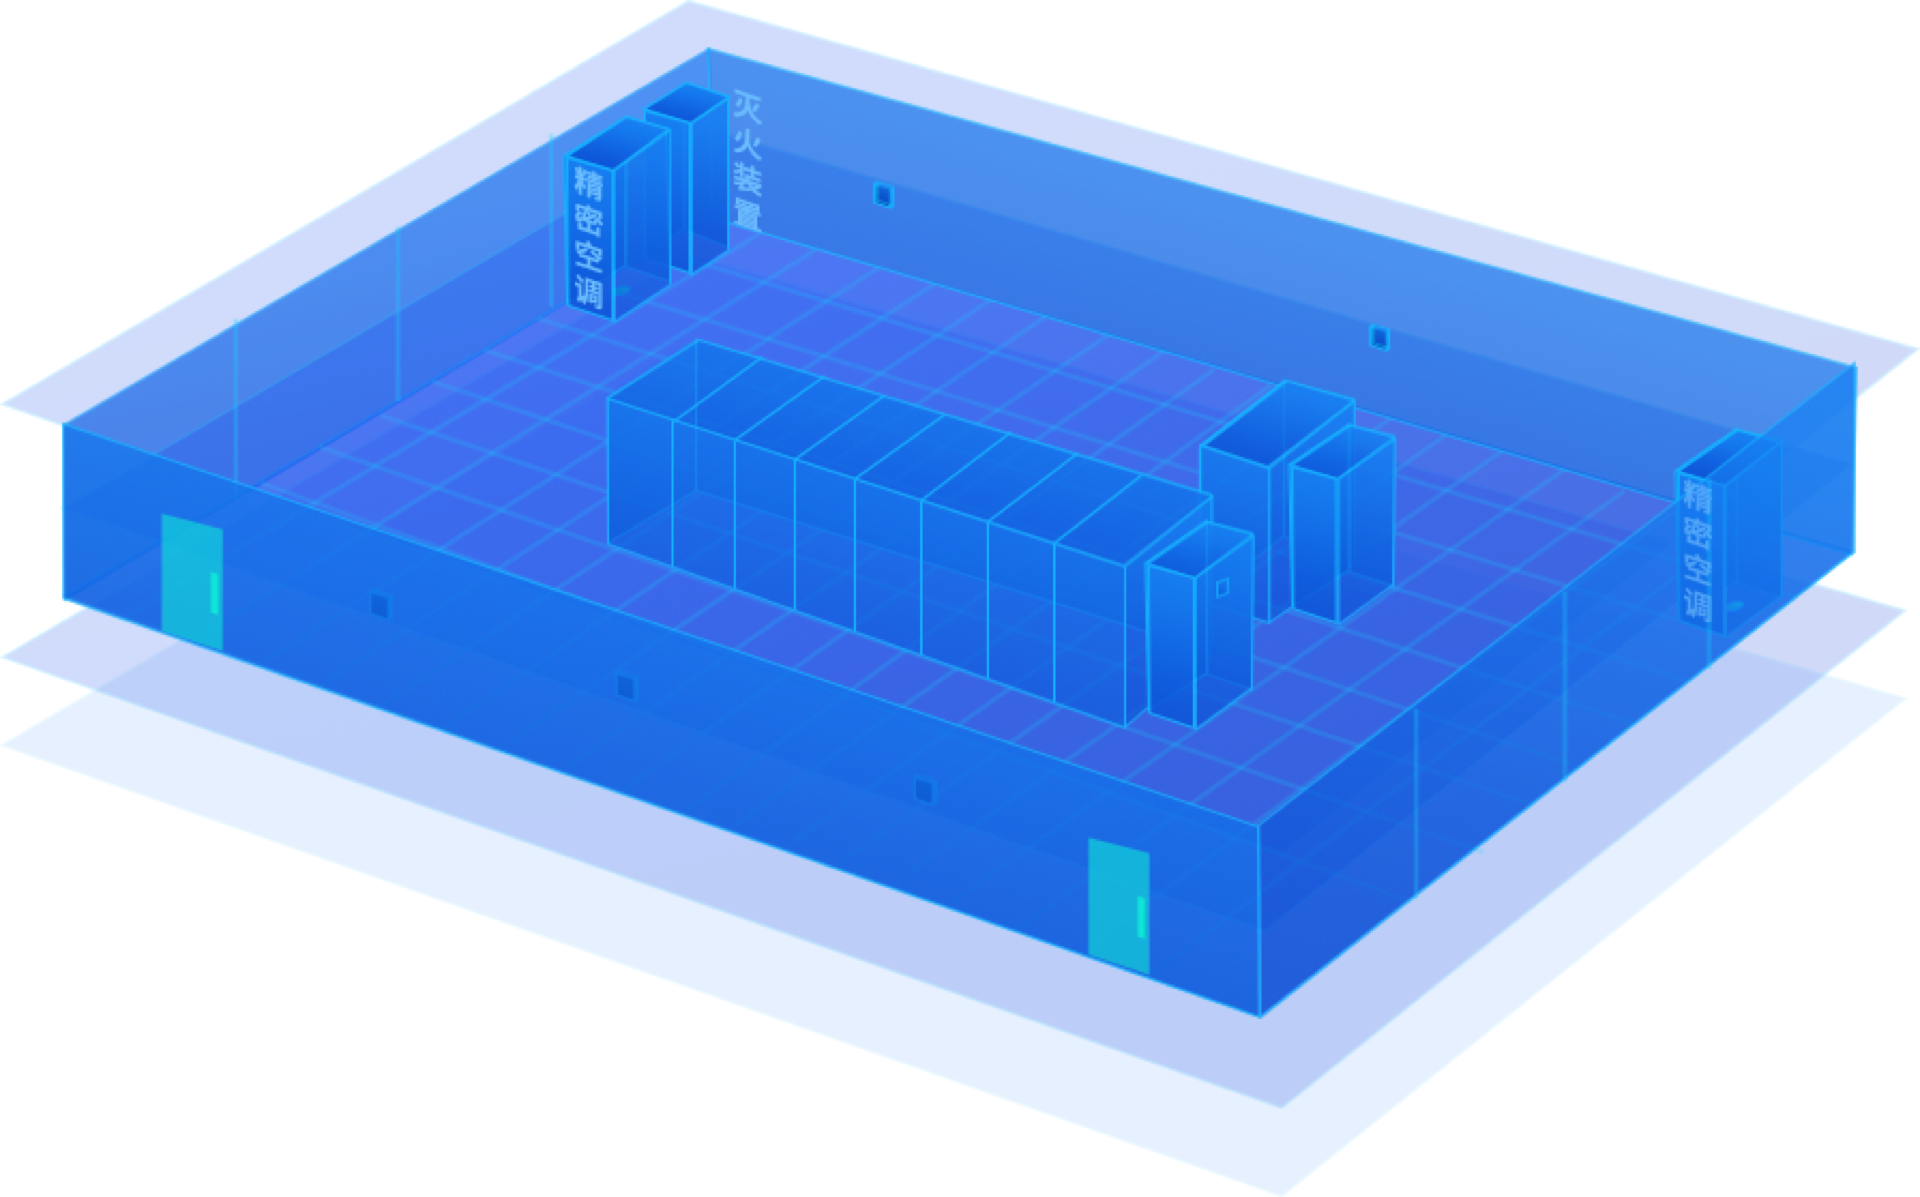
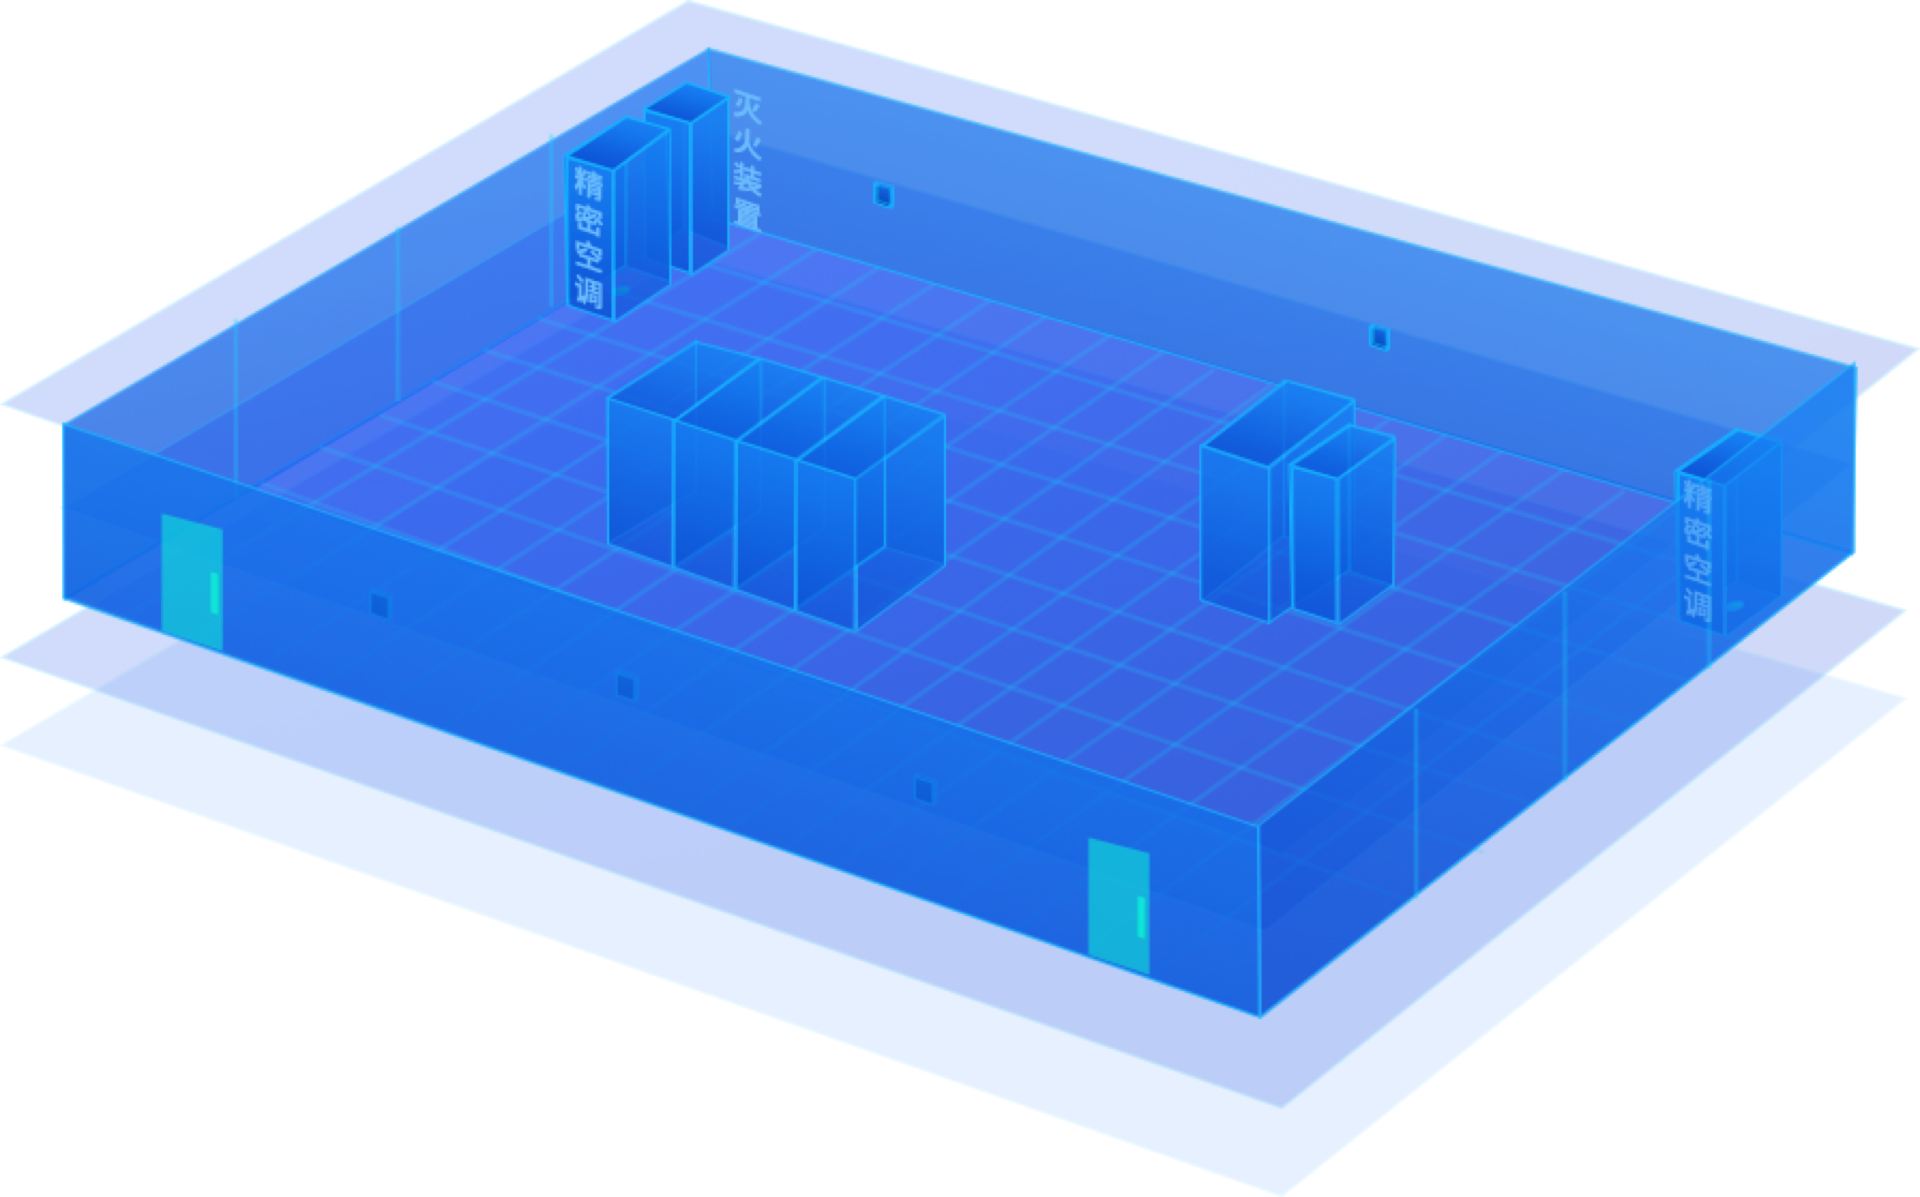
perf: 添加机箱状态

Changed region(s): [[0.4375, 0.34, 0.6562, 0.6182]]

diff --git a/src/components/overview/LocationInfo.vue b/src/components/overview/LocationInfo.vue
@@ -54,11 +54,17 @@
       <span>{{ smokeSensorPoint?.pointLocation }}</span>
       <img :src="smokeSensorPoint.noSmoke ? smokeNormal : smokeWarning" alt="" />
     </div>
+    <div class="crate-1-wrap"><img src="@/assets/images/overview/crate-1-blue.png" alt="" /></div>
+    <div class="crate-2-wrap"><img :src="iot" alt="" /></div>
+    <div class="crate-3-wrap"><img :src="dataPlatform1" alt="" /></div>
+    <div class="crate-4-wrap"><img :src="dataPlatform2" alt="" /></div>
+    <div class="crate-5-wrap"><img :src="devOps" alt="" /></div>
   </div>
 </template>
 
 <script setup lang="ts">
-import { computed } from 'vue'
+import { ref, computed, onMounted } from 'vue'
+import { apiGetSystemDeploy } from '@/service/api/overview'
 import waterNormal from '@/assets/images/overview/water-location-normal.png'
 import waterWarning from '@/assets/images/overview/water-location-warning.png'
 import sensorNormal from '@/assets/images/overview/sensor-normal.png'
@@ -67,6 +73,22 @@ import doorNormal from '@/assets/images/overview/door-normal.png'
 import doorWarning from '@/assets/images/overview/door-warning.png'
 import smokeNormal from '@/assets/images/overview/smoke-normal.png'
 import smokeWarning from '@/assets/images/overview/smoke-warning.png'
+
+import crate2Blue from '@/assets/images/overview/crate-2-blue.png'
+import crate2Yellow from '@/assets/images/overview/crate-2-yellow.png'
+import crate2Red from '@/assets/images/overview/crate-2-red.png'
+
+import crate3Blue from '@/assets/images/overview/crate-3-blue.png'
+import crate3Yellow from '@/assets/images/overview/crate-3-yellow.png'
+import crate3Red from '@/assets/images/overview/crate-3-red.png'
+
+import crate4Blue from '@/assets/images/overview/crate-4-blue.png'
+import crate4Yellow from '@/assets/images/overview/crate-4-yellow.png'
+import crate4Red from '@/assets/images/overview/crate-4-red.png'
+
+import crate5Blue from '@/assets/images/overview/crate-5-blue.png'
+import crate5Yellow from '@/assets/images/overview/crate-5-yellow.png'
+import crate5Red from '@/assets/images/overview/crate-5-red.png'
 
 const props = defineProps<{
   overviewData: any[]
@@ -92,6 +114,93 @@ const doorMagneticPoint = computed(() => props.doorMagnetic.filter((item: any) =
 
 // 烟雾传感器
 const smokeSensorPoint = computed(() => props.smokeSensor.filter((item: any) => item.pointCode === '1')[0] || {})
+
+// 物管平台&&配网监测
+const iot = computed(() => {
+  const result = tableData.value.filter(
+    (item: any) => item.systemCode === 'iot' || item.systemCode === 'distribution_network',
+  )
+  if (result.length > 0) {
+    if (result[0]?.systemStatus === 'red' || result[1]?.systemStatus === 'red') {
+      return crate2Red
+    } else if (result[0]?.systemStatus === 'yellow' || result[1]?.systemStatus === 'yellow') {
+      return crate2Yellow
+    } else {
+      return crate2Blue
+    }
+  } else {
+    return crate2Blue
+  }
+})
+
+// 数据中台
+const dataPlatform1 = computed(() => {
+  const result = tableData.value.filter((item: any) => item.systemCode === 'data_platform')
+  if (result.length > 0) {
+    switch (result[0].systemStatus) {
+      case 'red':
+        return crate3Red
+      case 'yellow':
+        return crate3Yellow
+      case 'green':
+        return crate3Blue
+      default:
+        return crate3Blue
+    }
+  } else {
+    return crate3Blue
+  }
+})
+
+// 数据中台
+const dataPlatform2 = computed(() => {
+  const result = tableData.value.filter((item: any) => item.systemCode === 'data_platform')
+  if (result.length > 0) {
+    switch (result[0].systemStatus) {
+      case 'red':
+        return crate4Red
+      case 'yellow':
+        return crate4Yellow
+      case 'green':
+        return crate4Blue
+      default:
+        return crate4Blue
+    }
+  } else {
+    return crate4Blue
+  }
+})
+
+// 指挥中心&&运维监控
+const devOps = computed(() => {
+  const result = tableData.value.filter(
+    (item: any) => item.systemCode === 'command_center' || item.systemCode === 'cvit_monitor',
+  )
+  if (result.length > 0) {
+    if (result[0]?.systemStatus === 'red' || result[1]?.systemStatus === 'red') {
+      return crate5Red
+    } else if (result[0]?.systemStatus === 'yellow' || result[1]?.systemStatus === 'yellow') {
+      return crate5Yellow
+    } else {
+      return crate5Blue
+    }
+  } else {
+    return crate5Blue
+  }
+})
+
+const tableData = ref<any[]>([])
+
+onMounted(() => {
+  getSystemDeploy()
+})
+
+const getSystemDeploy = async () => {
+  const { code, data } = await apiGetSystemDeploy()
+  if (code === 20000) {
+    tableData.value = data
+  }
+}
 
 /**
  * @desc 判断点位监测是否正常
@@ -153,6 +262,60 @@ const isNormal = (temperature: number, humidity: number) => {
     }
   }
 
+  .crate-1-wrap {
+    position: absolute;
+    top: 619px;
+    right: 673px;
+    z-index: 102;
+
+    img {
+      width: 95px;
+    }
+  }
+
+  .crate-2-wrap {
+    position: absolute;
+    top: 547px;
+    right: 708px;
+    z-index: 101;
+
+    img {
+      width: 157px;
+    }
+  }
+
+  .crate-3-wrap {
+    position: absolute;
+    top: 525px;
+    left: 987px;
+    z-index: 100;
+
+    img {
+      width: 155px;
+    }
+  }
+
+  .crate-4-wrap {
+    position: absolute;
+    top: 506px;
+    left: 921px;
+    z-index: 99;
+
+    img {
+      width: 155px;
+    }
+  }
+
+  .crate-5-wrap {
+    position: absolute;
+    top: 485px;
+    left: 855px;
+
+    img {
+      width: 155px;
+    }
+  }
+
   .water-position-one {
     position: absolute;
     top: 8%;
@@ -183,6 +346,7 @@ const isNormal = (temperature: number, humidity: number) => {
   .sensor-position-three {
     top: 47.5%;
     left: 42.8%;
+    z-index: 105;
     .sensor-position;
   }
 
